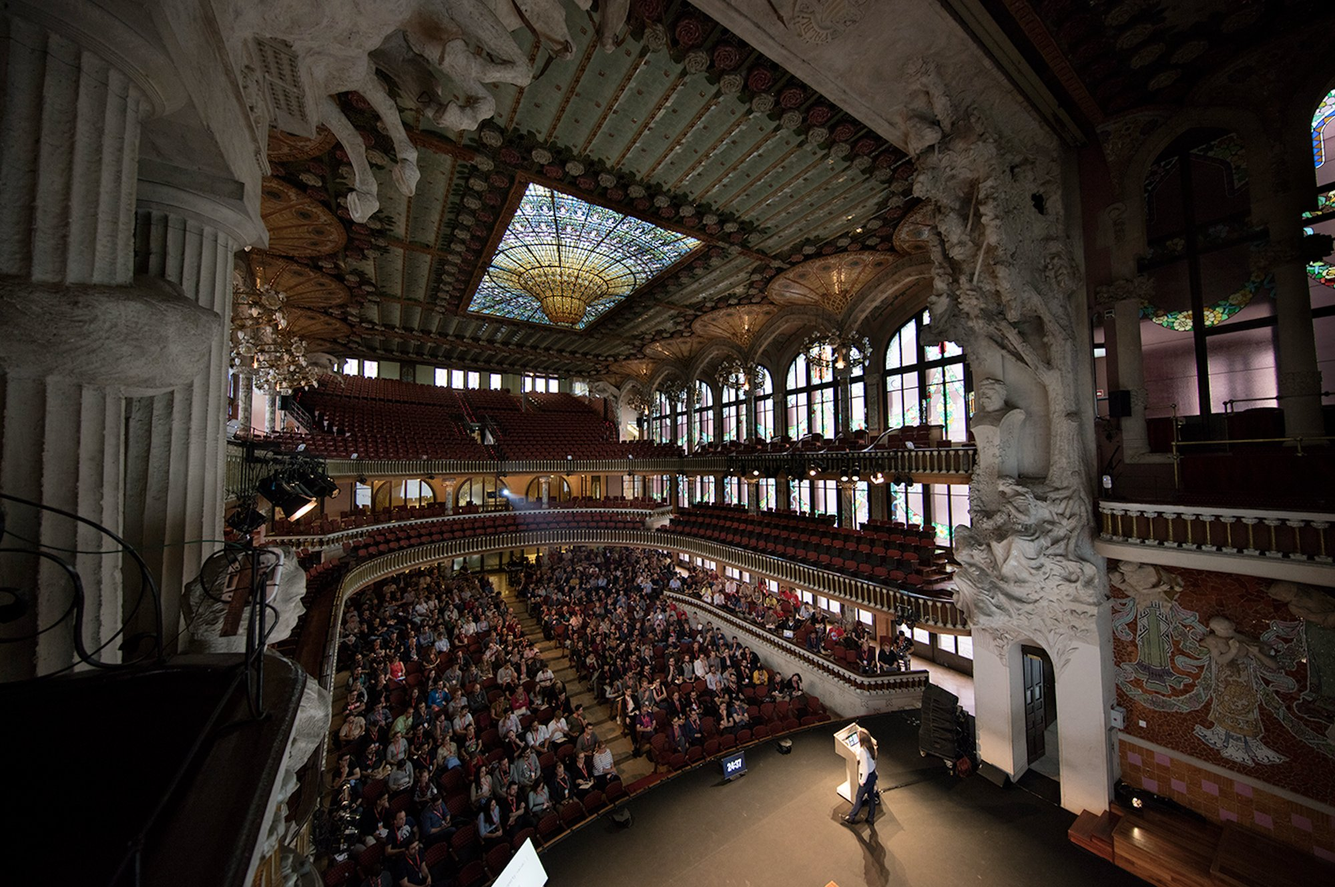
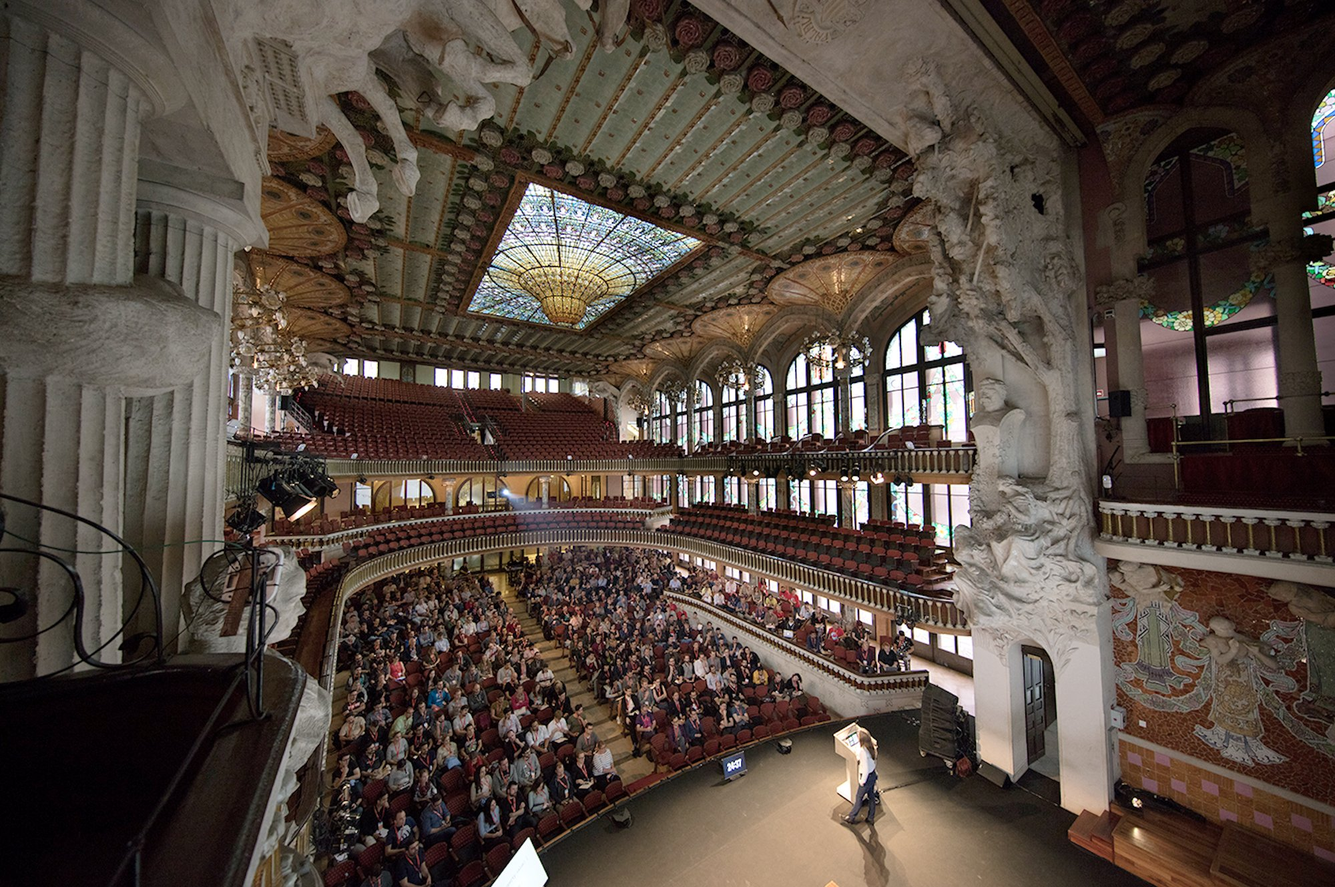
Events: brighten Palau photo
Claude-Session: https://claude.ai/code/session_016R5T8HULVGKfAE3PW3pdJb

diff --git a/site/work/events/index.html b/site/work/events/index.html
@@ -66,7 +66,7 @@
 </section>
 <section class="event-gallery">
     <div class="gallery-container">
-        <img src="/img/work/events/smashingconf-palau.jpg" alt="SmashingConf Barcelona at the Palau de la Música Catalana: a full hall seen from the balcony, under the stained-glass skylight, with a speaker at the lectern on stage" class="gallery-image full-width">
+        <img src="/img/work/events/smashingconf-palau.jpg?v=2" alt="SmashingConf Barcelona at the Palau de la Música Catalana: a full hall seen from the balcony, under the stained-glass skylight, with a speaker at the lectern on stage" class="gallery-image full-width">
         <img src="/img/work/events/work-events-smashing-party.png" alt="SmashingConf Barcelona main hall during presentation" class="gallery-image full-width">
         <div class="gallery-row">
             <img src="/img/work/events/work-events-smashing-fablab.png" alt="Attendees playing foosball" class="gallery-image half-width">
